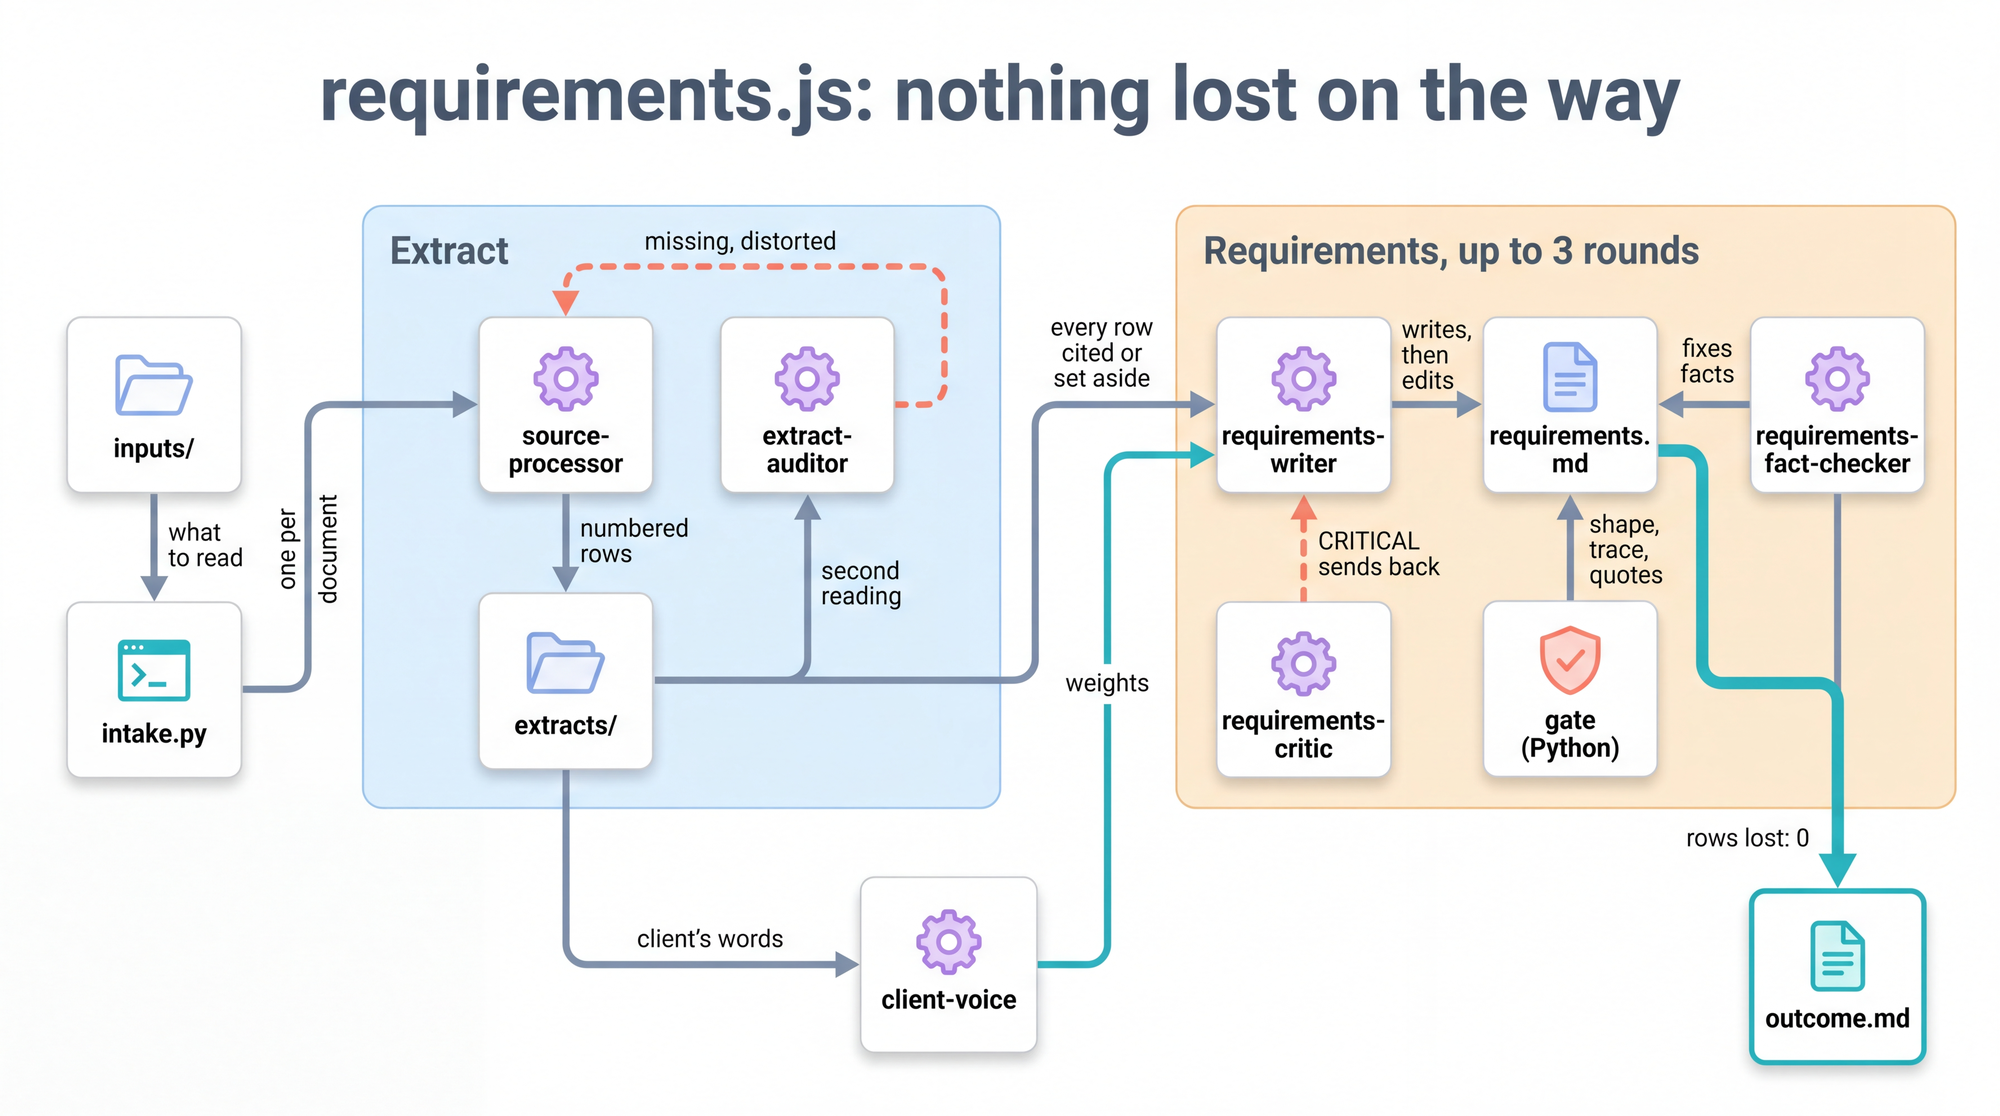
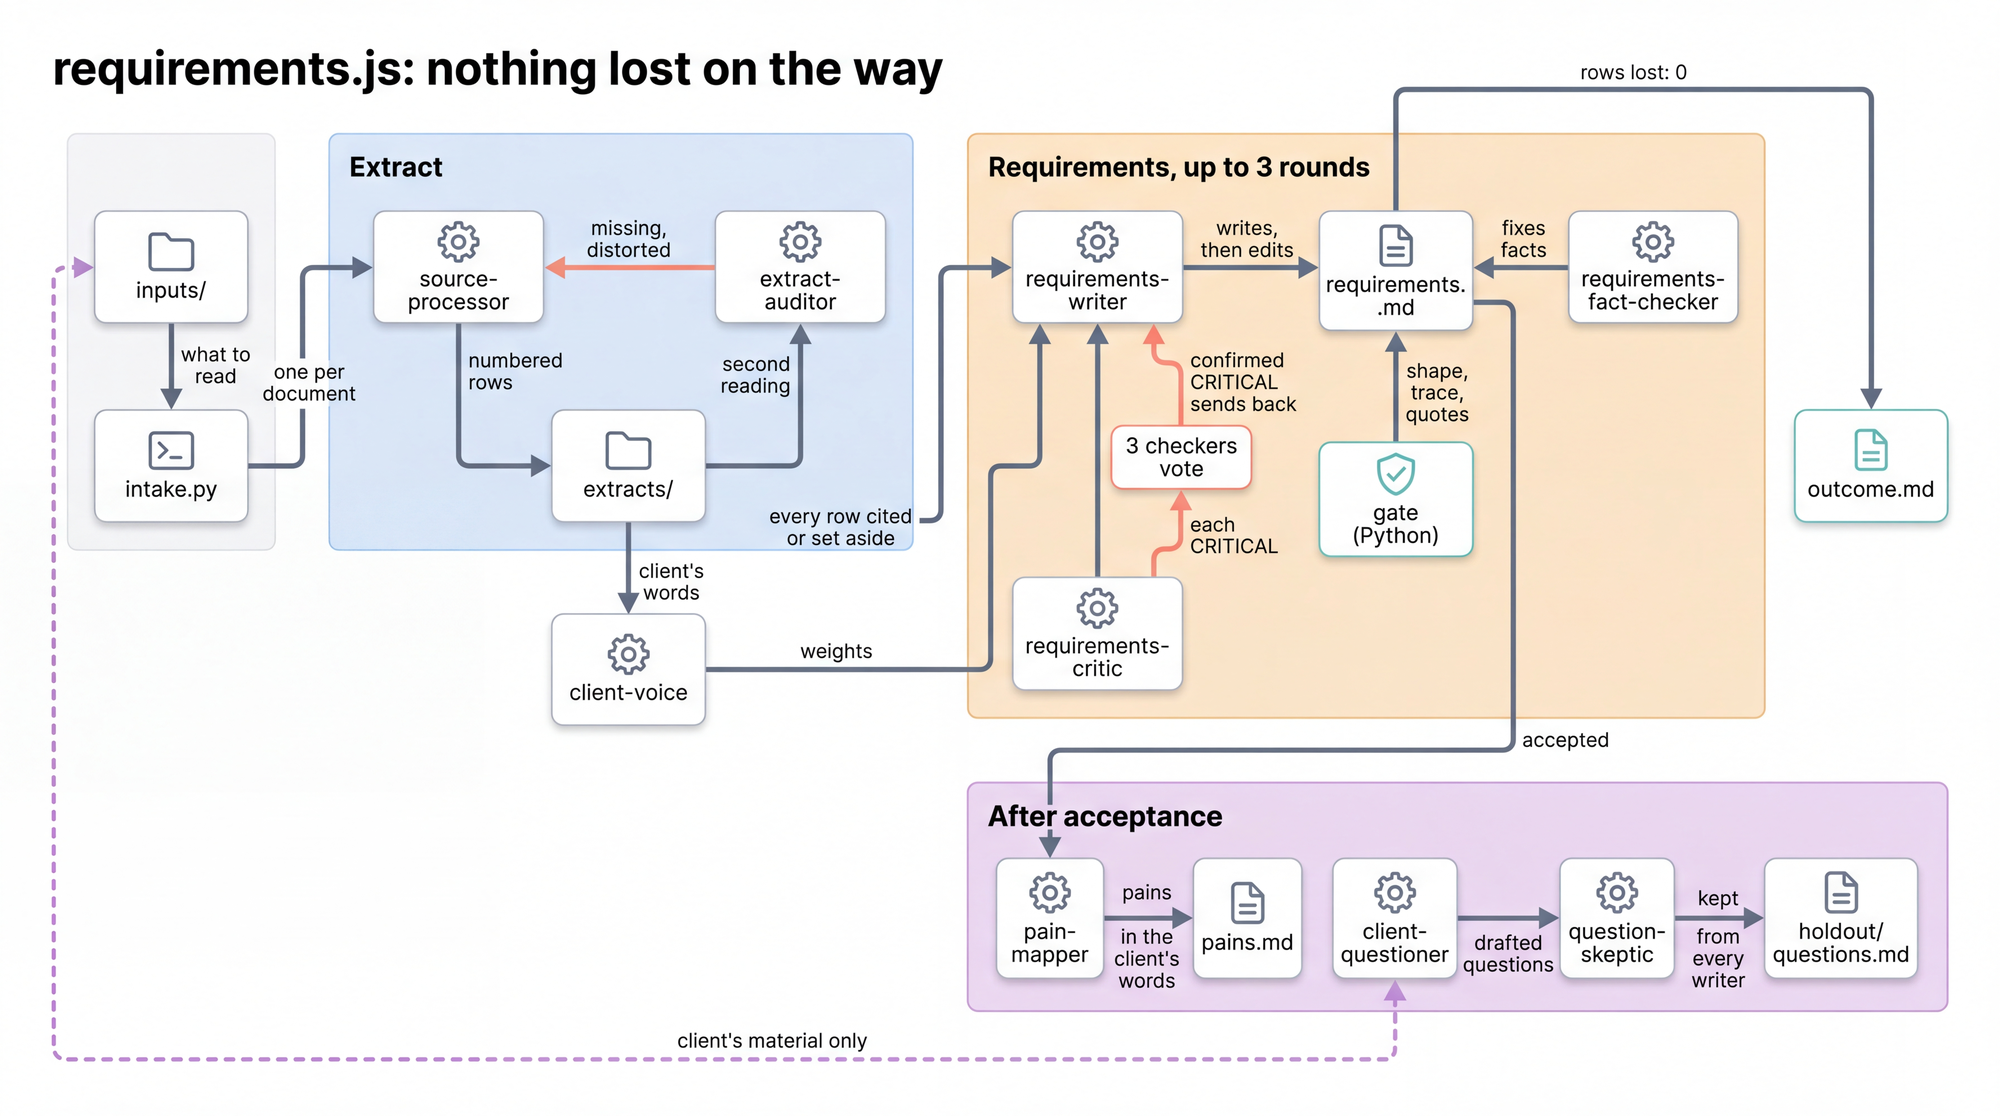
fix: a finished stage frees its run, a client's summary can be named theirs, straight quotes count
Found on one live run of requirements.js and proposal.js:

- busy: the record checks ran after the releasing audit and left the run busy for ten
  minutes, so the next stage was refused; they now release too. The start checks of a
  launch no longer count as work, so a refused launch does not extend the wait.
- intake: a client's document with "Summary" in its name was taken for our notes and every
  row resting on it became our assumption; config.kinds lets the person say whose a file is.
- pain_coverage: a pain map quoting in straight quotes with an attribution was not traced,
  and the gate reported 0 of 12 answered for three rounds; it now reads them as
  check_quotes does.
- README: the three fixes, and two redrawn figures: the requirements pipeline with the vote,
  the pain map and the holdout questions; the revision round with needs_context and
  missing-input.md.

diff --git a/.claude/workflows/requirements.js b/.claude/workflows/requirements.js
@@ -499,7 +499,16 @@ const skipped = []
     log(`[intake/skip] ${rel}: ${why}`)
   }
   const listed = new Set(files.map((f) => f.path))
-  const kindOf = new Map(files.map((f) => [f.path, f.kind]))
+  // The kind is guessed from the name; on one live run a client's "Technical Market Summary" was
+  // called ours for the word "summary", and every row resting on it became our assumption.
+  // config.kinds is the person's word on it: { "<path under inputs/>": "client" | "ours" }.
+  const KINDS = cfg.kinds || {}
+  for (const [rel, kind] of Object.entries(KINDS)) {
+    if (!['client', 'ours'].includes(kind)) throw new Error(`config.kinds[${rel}] is "client" or "ours"; got ${kind}`)
+    if (!files.some((f) => f.path === rel)) throw new Error(`config.kinds names ${rel}, which is not in ${INPUTS_DIR}`)
+  }
+  const kindOf = new Map(files.map((f) => [f.path, KINDS[f.path] || f.kind]))
+  for (const rel of Object.keys(KINDS)) log(`[intake/kind] ${rel}: ${KINDS[rel]} (config.kinds)`)
 
   // A byte-identical copy names another file of the inventory; it is read once.
   const unique = files.filter((f) => {
@@ -1454,7 +1463,9 @@ const records = [
   ...(writeOpen ? [UNRESOLVED_PATH] : []),
   ...(missingInput.length ? [MISSING_INPUT_PATH] : []),
 ]
-const recordList = records.map((r) => `${tool('gate')} --file "${r}" --min-length 50 ${noted('record on disk')}`)
+// The last commands of the stage: each releases the directory, so the audit's release is not
+// followed by a working line and the next stage, launched at once, does not find the run busy.
+const recordList = records.map((r) => `${tool('gate')} --file "${r}" --min-length 50 --log-release ${noted('record on disk')}`)
 const recorded = await call(commands(recordList), {
   agentType: 'gate-runner',
   model: MODELS.gate,

diff --git a/.claude/workflows/proposal.js b/.claude/workflows/proposal.js
@@ -990,7 +990,9 @@ const records = [
   ...(writeOpen ? [UNRESOLVED_PATH] : []),
   ...(missingInput.length ? [MISSING_INPUT_PATH] : []),
 ]
-const recordList = records.map((r) => `${tool('gate')} --file "${r}" --min-length 50 ${noted('record on disk')}`)
+// The last commands of the stage: each releases the directory, so the audit's release is not
+// followed by a working line and the next stage, launched at once, does not find the run busy.
+const recordList = records.map((r) => `${tool('gate')} --file "${r}" --min-length 50 --log-release ${noted('record on disk')}`)
 const recorded = await call(commands(recordList), { agentType: 'gate-runner', model: MODELS.gate, label: 'records', phase: 'Report', schema: CHECKS })
 const recordChecks = (recorded && recorded.checks) || []
 const missingRecords = recordChecks.length === records.length ? records.filter((r, i) => !recordChecks[i].ok) : records

diff --git a/tests/test_busy.py b/tests/test_busy.py
@@ -234,3 +234,29 @@ def test_receipt_goes_to_its_own_log(
     )
     line = json.loads(receipt.read_text(encoding="utf-8").splitlines()[0])
     assert line["tool"] == "busy"
+
+
+def test_final_record_checks_release_the_run() -> None:
+    """The record checks run after the releasing audit; a plain line there left the run busy.
+
+    On one live run the proposal, launched right after its requirements, was refused for ten
+    minutes: the last lines of the requirements log were the record checks, not the release.
+    """
+    root = Path(__file__).resolve().parent.parent / ".claude" / "workflows"
+    for script in sorted(root.glob("*.js")):
+        for line in script.read_text(encoding="utf-8").splitlines():
+            if "record on disk" in line:
+                assert "--log-release" in line, f"{script.name}: {line.strip()}"
+
+
+def test_start_checks_are_not_work(
+    capsys: pytest.CaptureFixture[str], monkeypatch: pytest.MonkeyPatch, tmp_path: Path
+) -> None:
+    """A launch refused as busy wrote its start checks; they must not make the next retry busy."""
+    log = log_of(
+        tmp_path,
+        {"at": "2026-08-16T15:00:00+03:00", "tool": "listing", "release": True},
+        {"at": "2026-08-16T15:29:00+03:00", "tool": "gate", "note": "start: requirements"},
+    )
+    report, _ = run(capsys, monkeypatch, "--file", str(log), "--now", NOW)
+    assert report["busy"] is False

diff --git a/tools/busy.py b/tools/busy.py
@@ -47,6 +47,10 @@ from pathlib import Path
 import toollog
 
 OWN_TOOL = "busy"
+# The start checks of a launch ask what is on disk; they do no work in the directory. A launch
+# refused as busy had already written them, and each retry kept the directory busy ten more
+# minutes on one live run.
+START_NOTE = "start:"
 
 
 def last_activity(log: Path) -> tuple[datetime | None, bool, list[str]]:
@@ -58,7 +62,8 @@ def last_activity(log: Path) -> tuple[datetime | None, bool, list[str]]:
     is exactly what a half-written log looks like.
 
     Returns the time, whether that line released the directory, and any problems reading. The
-    check's own receipts are skipped: a question about the directory is not work in it.
+    check's own receipts and the start checks of a launch are skipped: a question about the
+    directory is not work in it.
     """
     if not log.is_file():
         return None, False, []
@@ -72,6 +77,8 @@ def last_activity(log: Path) -> tuple[datetime | None, bool, list[str]]:
         except json.JSONDecodeError:
             continue
         if not isinstance(record, dict) or record.get("tool") == OWN_TOOL:
+            continue
+        if str(record.get("note") or "").startswith(START_NOTE):
             continue
         at = record.get("at")
         if not isinstance(at, str):

diff --git a/tests/test_pain_coverage.py b/tests/test_pain_coverage.py
@@ -60,3 +60,16 @@ def test_missing_and_late_pains_are_named() -> None:
 def test_a_pain_map_without_rows_is_a_problem() -> None:
     problems, _ = pain_coverage.check("## 1. Pains\nnothing\n", "## 1. x\n", 3, r"^##\s+5\.")
     assert any("declares no" in p for p in problems)
+
+
+def test_straight_quotes_with_attribution_are_traced() -> None:
+    """One live pain map quoted every row in straight quotes; none was traced and all 12 failed."""
+    pains = (
+        "## 1. Pains, most important first\n"
+        "| ID | The pain in their words | Who feels it |\n| --- | --- | --- |\n"
+        '| P-01 | "the front desk retypes every visit" (owner, call 00:07:42) | front desk |\n'
+    )
+    doc = proposal("The front desk retypes every visit, and that stops here.", "")
+    problems, measures = pain_coverage.check(pains, doc, 3, r"^##\s+5\.")
+    assert problems == []
+    assert measures["answered"] == 1

diff --git a/tools/pain_coverage.py b/tools/pain_coverage.py
@@ -28,7 +28,7 @@ import sys
 from pathlib import Path
 
 import toollog
-from check_quotes import QUOTE, SPLIT, normalise
+from check_quotes import ATTRIBUTED_STRAIGHT, QUOTE, SPLIT, normalise
 
 ROW_ID = re.compile(r"^(P|WR)-\d{2}\b")
 MIN_QUOTE = 15
@@ -47,7 +47,10 @@ def pain_rows(pains: str) -> list[tuple[str, list[str]]]:
         if not m or m.group(0) in seen:
             continue
         seen.add(m.group(0))
-        rows.append((m.group(0), QUOTE.findall(line)))
+        # A pain map that quotes with straight quotes and an attribution is read as check_quotes
+        # reads it; on one live run every row was so quoted and none was traced.
+        quotes = QUOTE.findall(line) + [q for q, _ in ATTRIBUTED_STRAIGHT.findall(line)]
+        rows.append((m.group(0), quotes))
     return rows
 
 
